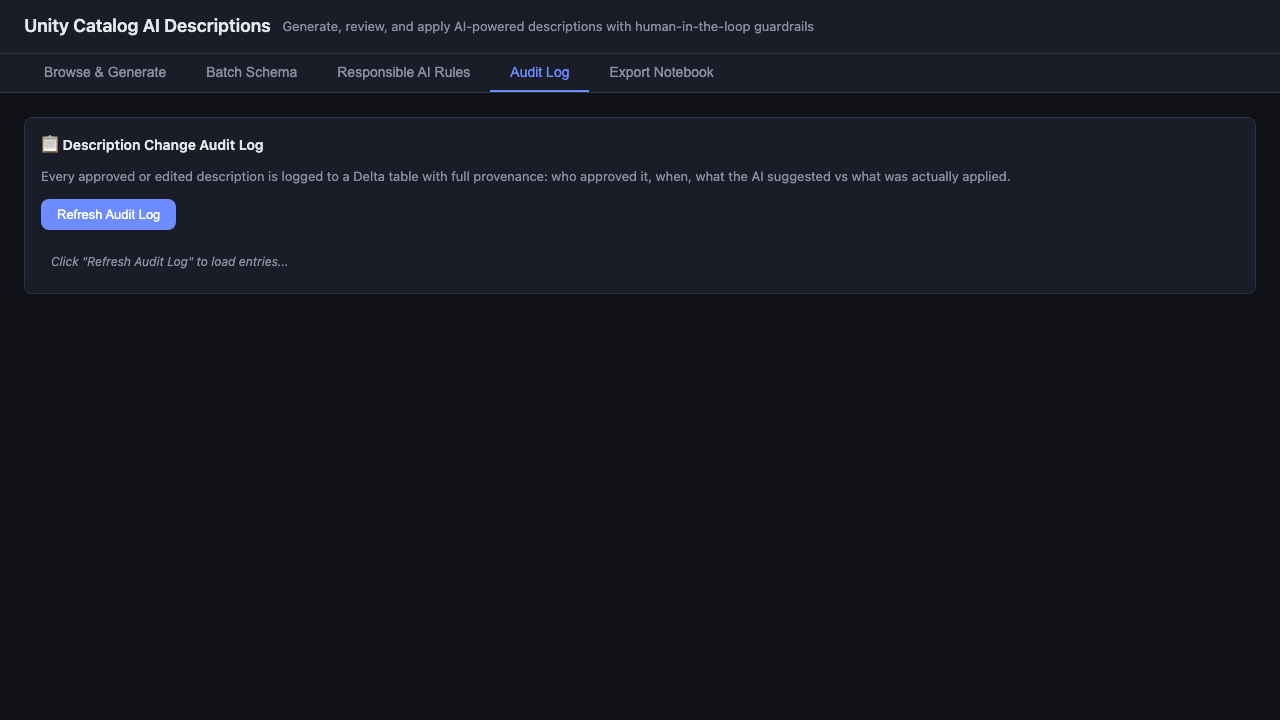
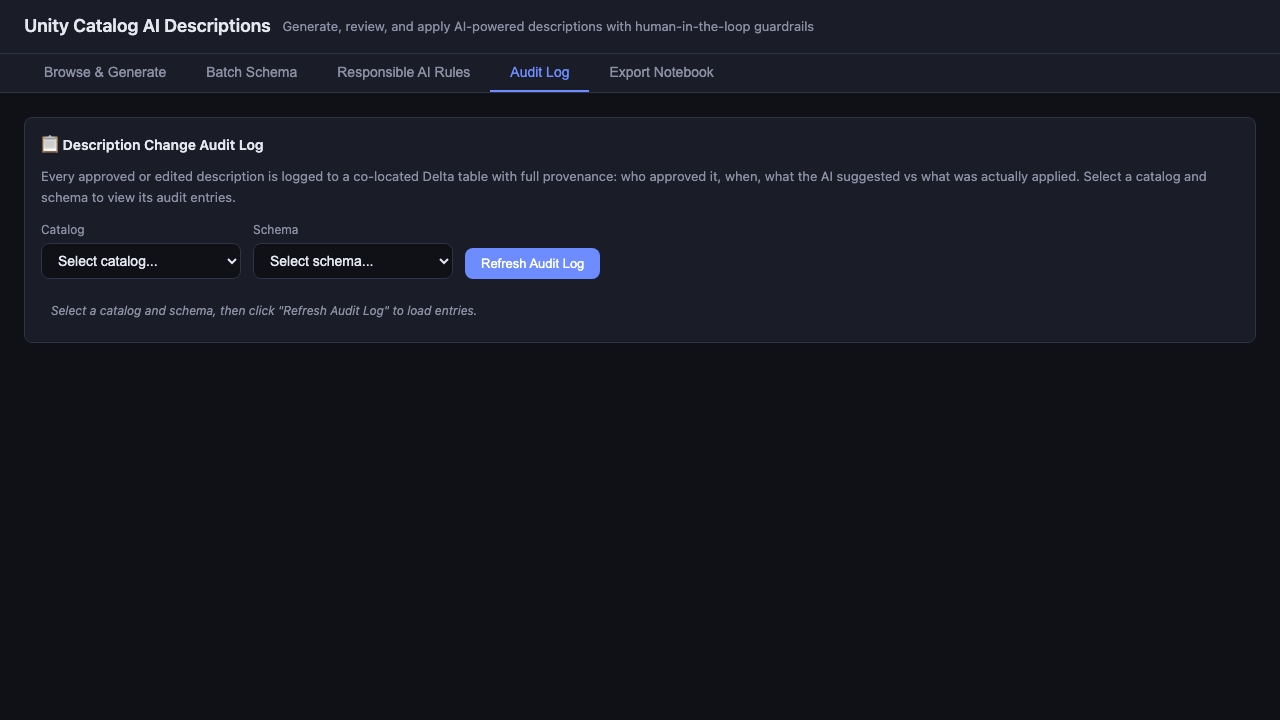
fix: add catalog/schema selectors to audit log tab
The /api/audit endpoint requires catalog_name and schema_name query
parameters (co-located audit tables), but the frontend was calling it
with no parameters, causing a 422 validation error.

Added catalog and schema dropdowns to the Audit Log tab and pass them
in the API call.

diff --git a/static/index.html b/static/index.html
@@ -359,15 +359,28 @@
     <div class="section">
       <div class="section-title">&#128203; Description Change Audit Log</div>
       <p style="color:var(--text-dim); font-size:13px; margin-bottom:12px;">
-        Every approved or edited description is logged to a Delta table with full provenance:
+        Every approved or edited description is logged to a co-located Delta table with full provenance:
         who approved it, when, what the AI suggested vs what was actually applied.
+        Select a catalog and schema to view its audit entries.
       </p>
-      <div style="display:flex; gap:12px; align-items:center; margin-bottom:16px;">
+      <div style="display:flex; gap:12px; align-items:flex-end; flex-wrap:wrap; margin-bottom:16px;">
+        <div>
+          <div style="font-size:12px; color:var(--text-dim); margin-bottom:4px;">Catalog</div>
+          <select id="audit-catalog" onchange="loadAuditSchemas()" style="padding:8px 12px; background:var(--bg); border:1px solid var(--border); border-radius:var(--radius); color:var(--text); font-size:14px; min-width:200px;">
+            <option value="">Select catalog...</option>
+          </select>
+        </div>
+        <div>
+          <div style="font-size:12px; color:var(--text-dim); margin-bottom:4px;">Schema</div>
+          <select id="audit-schema" style="padding:8px 12px; background:var(--bg); border:1px solid var(--border); border-radius:var(--radius); color:var(--text); font-size:14px; min-width:200px;">
+            <option value="">Select schema...</option>
+          </select>
+        </div>
         <button class="btn btn-primary" onclick="loadAuditLog()">Refresh Audit Log</button>
         <span id="audit-count" style="color:var(--text-dim); font-size:13px;"></span>
       </div>
       <div id="audit-table-container">
-        <div class="loading-inline">Click "Refresh Audit Log" to load entries...</div>
+        <div class="loading-inline">Select a catalog and schema, then click "Refresh Audit Log" to load entries.</div>
       </div>
     </div>
   </div>
@@ -725,7 +738,7 @@ async function applyApproved() {
 // ── Catalog Dropdowns (Batch & Notebook tabs) ──────────────
 async function loadCatalogDropdowns() {
   const data = await apiFetch(`${API}/catalogs`);
-  for (const id of ['batch-catalog', 'nb-catalog']) {
+  for (const id of ['batch-catalog', 'nb-catalog', 'audit-catalog']) {
     const sel = document.getElementById(id);
     const current = sel.value;
     sel.innerHTML = '<option value="">Select catalog...</option>';
@@ -747,6 +760,16 @@ async function loadBatchSchemas() {
 async function loadNbSchemas() {
   const cat = document.getElementById('nb-catalog').value;
   const sel = document.getElementById('nb-schema');
+  sel.innerHTML = '<option value="">Loading...</option>';
+  if (!cat) { sel.innerHTML = '<option value="">Select schema...</option>'; return; }
+  const data = await apiFetch(`${API}/schemas/${cat}`);
+  sel.innerHTML = '<option value="">Select schema...</option>';
+  data.schemas.forEach(s => { const opt = document.createElement('option'); opt.value = s.name; opt.text = s.name; sel.appendChild(opt); });
+}
+
+async function loadAuditSchemas() {
+  const cat = document.getElementById('audit-catalog').value;
+  const sel = document.getElementById('audit-schema');
   sel.innerHTML = '<option value="">Loading...</option>';
   if (!cat) { sel.innerHTML = '<option value="">Select schema...</option>'; return; }
   const data = await apiFetch(`${API}/schemas/${cat}`);
@@ -865,10 +888,13 @@ async function loadRules() {
 
 // ── Audit Log ──────────────────────────────────────────────
 async function loadAuditLog() {
+  const cat = document.getElementById('audit-catalog').value;
+  const schema = document.getElementById('audit-schema').value;
+  if (!cat || !schema) { showToast('Select a catalog and schema first', true); return; }
   const container = document.getElementById('audit-table-container');
   container.innerHTML = '<div class="loading-inline">Loading audit log...</div>';
   try {
-    const data = await apiFetch(`${API}/audit`);
+    const data = await apiFetch(`${API}/audit?catalog_name=${encodeURIComponent(cat)}&schema_name=${encodeURIComponent(schema)}`);
     document.getElementById('audit-count').textContent = `${data.count} entries`;
     if (data.entries.length === 0) {
       container.innerHTML = '<div class="loading-inline">No audit entries yet. Apply some descriptions to see the log.</div>';
